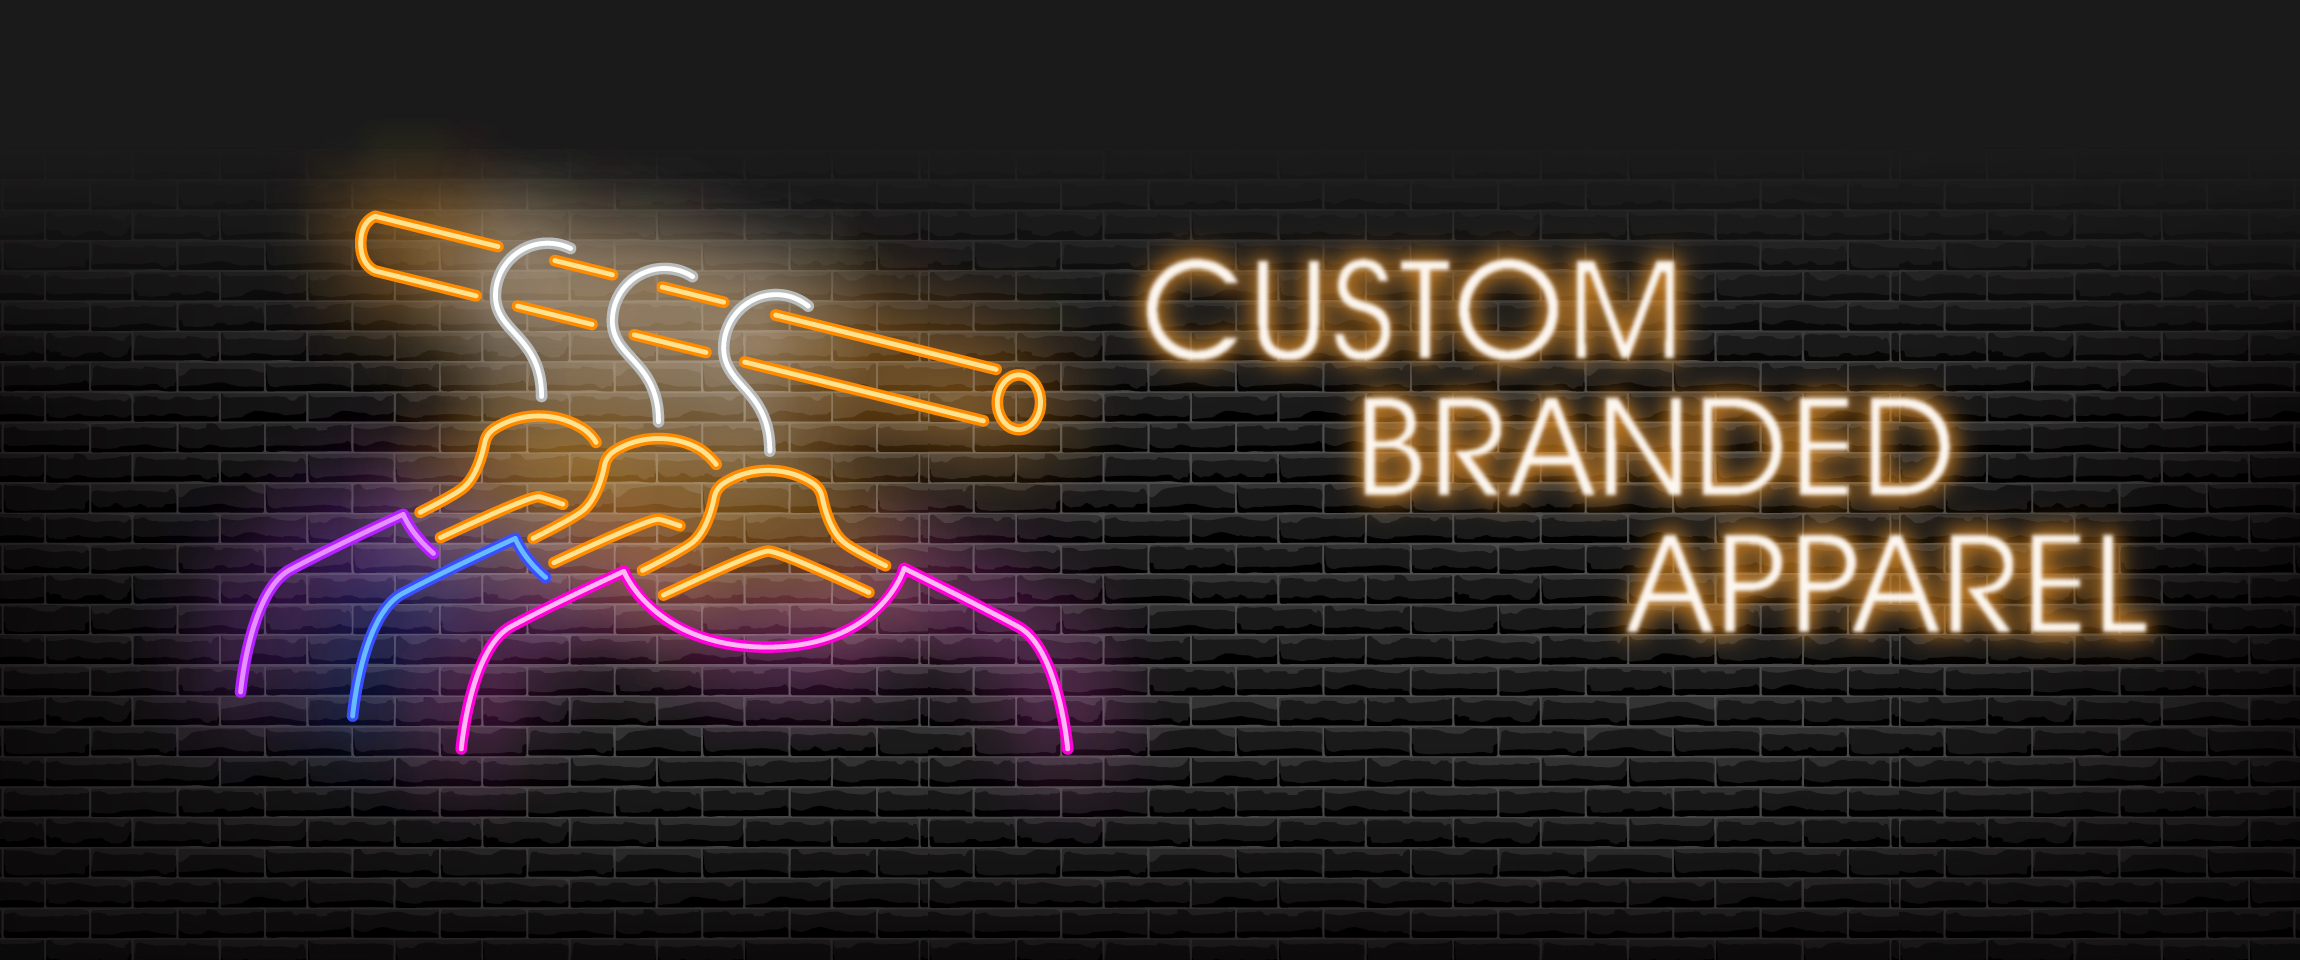
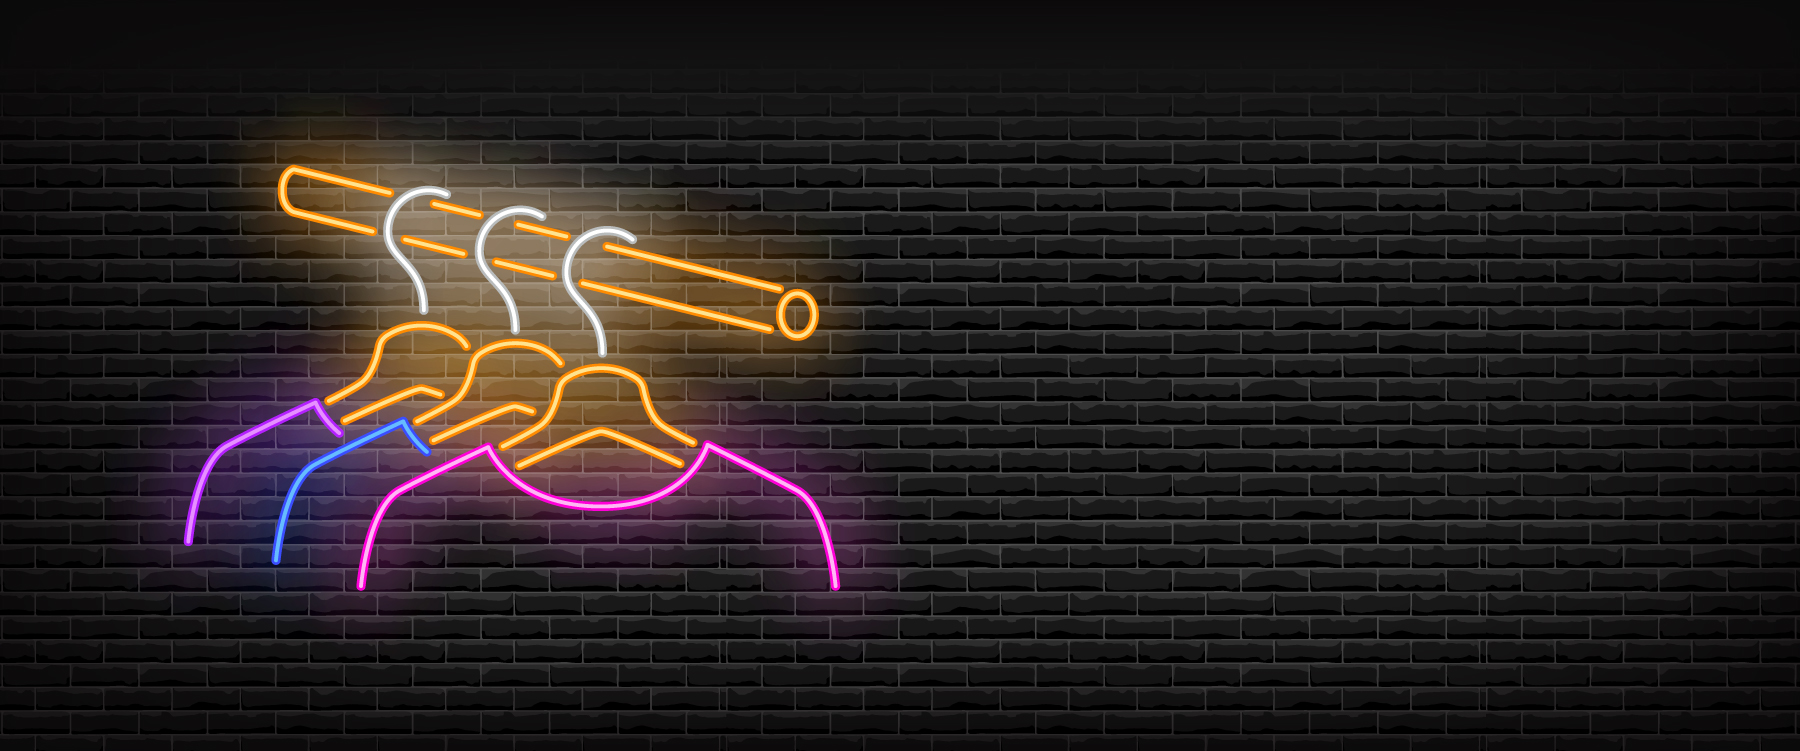
Styled cover image and cover text to neon. Fix minor bugs

Changed region(s): [[0.4667, 0.245, 0.9644, 0.6738], [0.4044, 0.6125, 0.4356, 0.6431], [0.3422, 0.6431, 0.3733, 0.6738]]

diff --git a/css/Styles.css b/css/Styles.css
@@ -272,43 +272,67 @@ nav a:hover {
 }
 
 .cover {
+  -webkit-box-sizing: border-box;
+          box-sizing: border-box;
   width: 100%;
-  height: 65vh;
+  height: 75vh;
   background-image: url("/images/Custom-Manufacturing.jpg");
   background-size: cover;
   background-position: center center;
+  padding: 4rem 2rem;
+  /* Grid style */
   display: -ms-grid;
   display: grid;
-  -ms-grid-rows: 1fr;
-      grid-template-rows: 1fr;
   -ms-grid-columns: 1fr 1fr;
       grid-template-columns: 1fr 1fr;
-}
-
-.cover-text {
-  -ms-grid-column: 2;
-      grid-column-start: 2;
-  grid-column-end: 3;
-  justify-self: end;
-  -ms-flex-item-align: center;
-      align-self: center;
-  display: -webkit-box;
-  display: -ms-flexbox;
-  display: flex;
   -webkit-box-align: center;
       -ms-flex-align: center;
           align-items: center;
-  width: 600px;
-  height: 100px;
-  background-color: #1A1A1A;
+      grid-template-areas: ". heading_text";
 }
 
-.cover-text h2 {
-  color: #FCF69A;
-  padding-left: 20px;
-  font-size: 2em;
+.cover > * {
+  color: #fff;
+}
+
+.cover > h1 {
+  -ms-grid-row: 1;
+  -ms-grid-column: 2;
+  grid-area: heading_text;
+  font-size: calc(3rem + .8vw);
+  line-height: calc(60px + .8vw);
+  padding-left: 50px;
+  -webkit-transition: all 0.5s;
+  transition: all 0.5s;
+  font-family: 'Audiowide', cursive;
   text-transform: uppercase;
-  font-weight: bold;
+  -webkit-animation: neon1 1.5s ease-in-out infinite alternate;
+          animation: neon1 1.5s ease-in-out infinite alternate;
+}
+
+@media screen and (min-width: 1600px) {
+  .cover > h1 {
+    font-size: 5rem;
+    line-height: calc(100px + .8vw);
+  }
+}
+
+@-webkit-keyframes neon1 {
+  from {
+    text-shadow: 0 0 2px #fff, 0 0 5px #fff, 0 0 10px #fff, 0 0 15px #FF1177, 0 0 20px #FF1177, 0 0 25px #FF1177, 0 0 35px #FF1177, 0 0 50px #FF1177;
+  }
+  to {
+    text-shadow: 0 0 2px #fff, 0 0 5px #fff, 0 0 10px #fff, 0 0 15px #FF1177, 0 0 20px #FF1177, 0 0 25px #FF1177, 0 0 35px #FF1177, 0 0 50px #FF1177;
+  }
+}
+
+@keyframes neon1 {
+  from {
+    text-shadow: 0 0 2px #fff, 0 0 5px #fff, 0 0 10px #fff, 0 0 15px #FF1177, 0 0 20px #FF1177, 0 0 25px #FF1177, 0 0 35px #FF1177, 0 0 50px #FF1177;
+  }
+  to {
+    text-shadow: 0 0 2px #fff, 0 0 5px #fff, 0 0 10px #fff, 0 0 15px #FF1177, 0 0 20px #FF1177, 0 0 25px #FF1177, 0 0 35px #FF1177, 0 0 50px #FF1177;
+  }
 }
 
 .main-content {

diff --git a/css/Styles.scss b/css/Styles.scss
@@ -1,4 +1,5 @@
-  
+$neon_color: #fff;
+
 * {
     -webkit-box-sizing: border-box;
     box-sizing: border-box;
@@ -251,36 +252,51 @@
 
 
   .cover {
-      width: 100%;
-      height: 65vh;
-      background-image: url("/images/Custom-Manufacturing.jpg");
-      background-size: cover;
-      background-position: center center;
-      display: grid;
-      grid-template-rows: 1fr;
-      grid-template-columns: 1fr 1fr;
+    box-sizing: border-box;
+    width: 100%;  
+    height: 75vh;
+    background-image: url("/images/Custom-Manufacturing.jpg");
+    background-size: cover;
+    background-position: center center;
+    padding: 4rem 2rem;
+    /* Grid style */
+    display: grid;
+    grid-template-columns: 1fr 1fr;
+    align-items: center;
+    grid-template-areas: ". heading_text";
   }
 
-  .cover-text {
-      grid-column-start: 2;
-      grid-column-end: 3;
-      justify-self: end;
-      align-self: center;
-      display: flex;
-      align-items: center;
-      width: 600px;
-      height: 100px;
-      background-color: #1A1A1A;
+  .cover > * {
+    color: $neon_color;
   }
 
-  .cover-text h2 {
-      color: #FCF69A;
-      padding-left: 20px;
-      font-size: 2em;
-      text-transform: uppercase;
-      font-weight: bold;
+  .cover > h1 {
+    grid-area: heading_text;
+    font-size: calc(3rem + .8vw);
+    line-height: calc(60px + .8vw);
+    padding-left: 50px;
+    transition: all 0.5s;
+    font-family: 'Audiowide', cursive;
+    text-transform: uppercase;
+    animation: neon1 1.5s ease-in-out infinite alternate;
   }
 
+  @media screen and (min-width:1600px) {
+    .cover > h1 {
+      font-size: 5rem;
+      line-height: calc(100px + .8vw);
+    }
+  }
+
+  @keyframes neon1 {
+    from {
+      text-shadow: 0 0 2px #fff, 0 0 5px #fff, 0 0 10px #fff, 0 0 15px #FF1177, 0 0 20px #FF1177, 0 0 25px #FF1177, 0 0 35px #FF1177, 0 0 50px #FF1177;
+    }
+    to {
+      text-shadow: 0 0 2px #fff, 0 0 5px #fff, 0 0 10px #fff, 0 0 15px #FF1177, 0 0 20px #FF1177, 0 0 25px #FF1177, 0 0 35px #FF1177, 0 0 50px #FF1177;
+    }
+  }
+  
   .main-content {
       margin: 0;
   }

diff --git a/index.html b/index.html
@@ -11,6 +11,7 @@
     <meta name="keywords" content="dye sublimation, dye sublimation printer, dye sublimation printing, dye sublimation shirts, dye sublimation south africa, dye sublimation Pietermaritzburg, dye sublimation apparel, dye sublimation banners, dye sublimation clothing, dye sublimation canvas, dye sublimation design, dye sublimation fabric, dye sublimation flags, dye sublimation fishing shirts, dye sublimation graphics, dye sublimation gifts, dye sublimation hoodies, dye sublimation jackets, dye sublimation sportswear, dye sublimation ties, dye sublimation mx gear, custom shirts, custom apparel, custom banners, custom clothing, custom flags, custom fishing shirts, custom hoodies, custom jackets, custom sportawear, custom ties, custom mx riding gear" />
 
     <link rel="stylesheet" href="css/Styles.css" />
+    <link href="https://fonts.googleapis.com/css?family=Audiowide&display=swap" rel="stylesheet">
 
     <script src="https://kit.fontawesome.com/563dfd6ec1.js" crossorigin="anonymous"></script>
 
@@ -66,7 +67,7 @@
 
         <div class="main">
             <div class="cover">
-                
+                <h1>Custom Branded Apparel</h1>
             </div>
             <div class="main-content">
                 <div class="intro">

diff --git a/contact.html b/contact.html
@@ -43,11 +43,11 @@
 
                     <div class="left-menu">
                         <a href="index.html">Home</a>
-                        <a href="sportswear.html">Sportswear</a>
-                        <a href="schoolwear.html">School Wear</a>
-                        <a href="corporatewear.html">Corporate Wear</a>
-                        <a href="promoitems.html">Banners & Gazebos</a>
-                        <a href="contact.html">Contact Us</a>
+                        <a href="corporatewear.html">Corporate</a>
+                        <a href="sportswear.html">Sports</a>
+                        <a href="schoolwear.html">School</a>
+                        <a href="promoitems.html">Banners</a>
+                        <a href="contact.html">Contact</a>
                     </div>
                     
 

diff --git a/corporatewear.html b/corporatewear.html
@@ -43,11 +43,11 @@
 
                     <div class="left-menu">
                         <a href="index.html">Home</a>
-                        <a href="sportswear.html">Sportswear</a>
-                        <a href="schoolwear.html">School Wear</a>
-                        <a href="corporatewear.html">Corporate Wear</a>
-                        <a href="promoitems.html">Banners & Gazebos</a>
-                        <a href="contact.html">Contact Us</a>
+                        <a href="corporatewear.html">Corporate</a>
+                        <a href="sportswear.html">Sports</a>
+                        <a href="schoolwear.html">School</a>
+                        <a href="promoitems.html">Banners</a>
+                        <a href="contact.html">Contact</a>
                     </div>
                     
 

diff --git a/promoitems.html b/promoitems.html
@@ -43,11 +43,11 @@
 
                     <div class="left-menu">
                         <a href="index.html">Home</a>
-                        <a href="sportswear.html">Sportswear</a>
-                        <a href="schoolwear.html">School Wear</a>
-                        <a href="corporatewear.html">Corporate Wear</a>
-                        <a href="promoitems.html">Banners & Gazebos</a>
-                        <a href="contact.html">Contact Us</a>
+                        <a href="corporatewear.html">Corporate</a>
+                        <a href="sportswear.html">Sports</a>
+                        <a href="schoolwear.html">School</a>
+                        <a href="promoitems.html">Banners</a>
+                        <a href="contact.html">Contact</a>
                     </div>
                     
 

diff --git a/schoolwear.html b/schoolwear.html
@@ -43,11 +43,11 @@
 
                     <div class="left-menu">
                         <a href="index.html">Home</a>
-                        <a href="sportswear.html">Sportswear</a>
-                        <a href="schoolwear.html">School Wear</a>
-                        <a href="corporatewear.html">Corporate Wear</a>
-                        <a href="promoitems.html">Banners & Gazebos</a>
-                        <a href="contact.html">Contact Us</a>
+                        <a href="corporatewear.html">Corporate</a>
+                        <a href="sportswear.html">Sports</a>
+                        <a href="schoolwear.html">School</a>
+                        <a href="promoitems.html">Banners</a>
+                        <a href="contact.html">Contact</a>
                     </div>
                     
 

diff --git a/sportswear.html b/sportswear.html
@@ -43,11 +43,11 @@
 
                     <div class="left-menu">
                         <a href="index.html">Home</a>
-                        <a href="sportswear.html">Sportswear</a>
-                        <a href="schoolwear.html">School Wear</a>
-                        <a href="corporatewear.html">Corporate Wear</a>
-                        <a href="promoitems.html">Banners & Gazebos</a>
-                        <a href="contact.html">Contact Us</a>
+                        <a href="corporatewear.html">Corporate</a>
+                        <a href="sportswear.html">Sports</a>
+                        <a href="schoolwear.html">School</a>
+                        <a href="promoitems.html">Banners</a>
+                        <a href="contact.html">Contact</a>
                     </div>
                     
 
